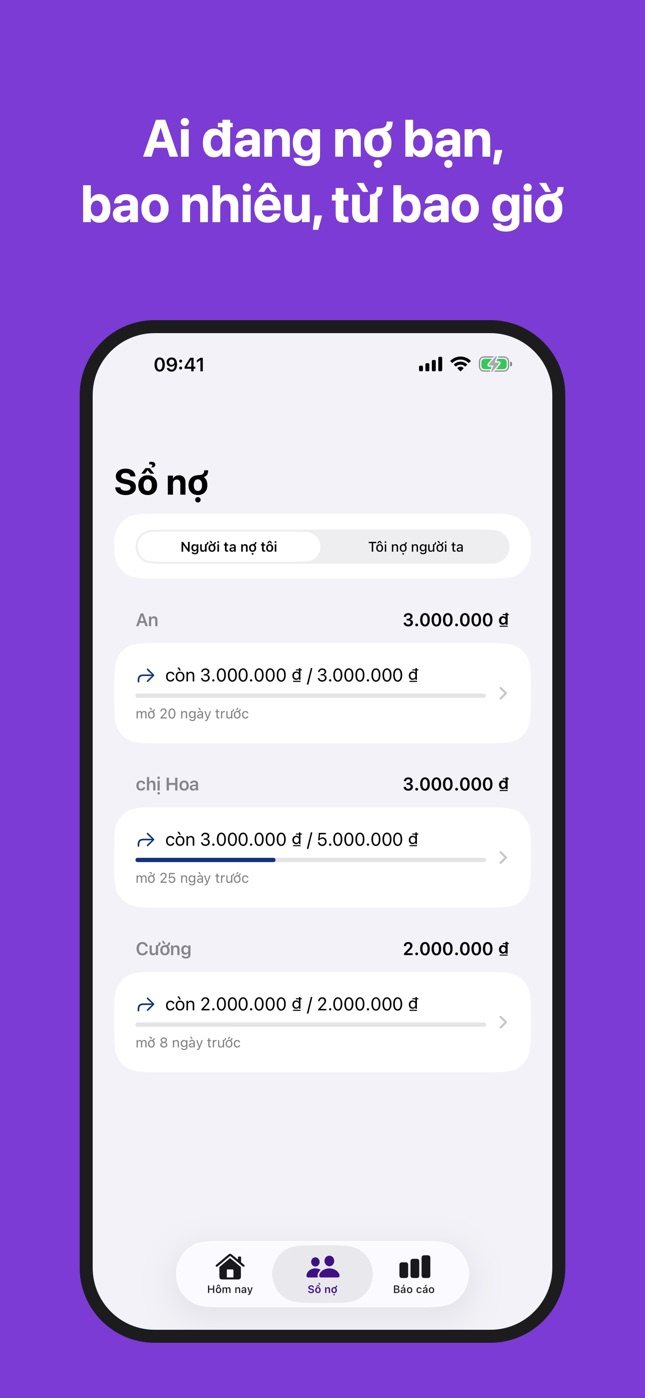
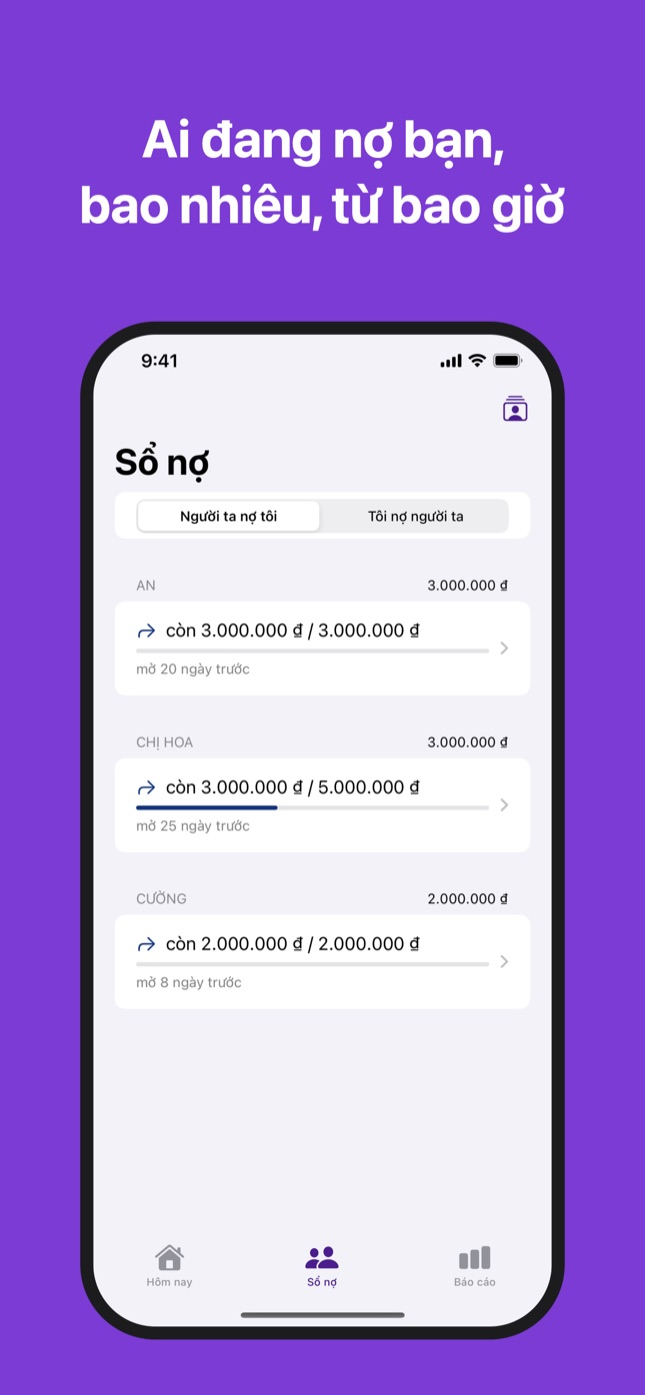
Add files via upload

diff --git a/docs/index.html b/docs/index.html
@@ -30,9 +30,9 @@
   </section>
 
   <section class="shots" aria-label="Ảnh màn hình">
-    <img src="assets/shot-01.jpg" alt="Ảnh màn hình ứng dụng 1" width="645" height="1398" loading="lazy">
-    <img src="assets/shot-02.jpg" alt="Ảnh màn hình ứng dụng 2" width="645" height="1398" loading="lazy">
-    <img src="assets/shot-03.jpg" alt="Ảnh màn hình ứng dụng 3" width="645" height="1398" loading="lazy">
+    <img src="assets/shot-01.jpg" alt="Ảnh màn hình ứng dụng 1" width="645" height="1395" loading="lazy">
+    <img src="assets/shot-02.jpg" alt="Ảnh màn hình ứng dụng 2" width="645" height="1395" loading="lazy">
+    <img src="assets/shot-03.jpg" alt="Ảnh màn hình ứng dụng 3" width="645" height="1395" loading="lazy">
   </section>
 
   <section class="features" aria-label="Tính năng">
@@ -51,6 +51,30 @@
     <div class="card">
       <h2>Cho mượn không phải là tiêu tiền</h2>
       <p>Tiền cho mượn không bị tính vào chi tiêu, tiền đi mượn không bị tính vào thu nhập. Vì vậy con số "tháng này tôi tiêu bao nhiêu" là con số thật.</p>
+    </div>
+    <div class="card">
+      <h2>Nhiều ví, một con số tổng</h2>
+      <p>Tiền mặt, ngân hàng, ví điện tử — tuỳ bạn đặt. Số lớn trên màn hình đầu là tổng mọi ví; chạm vào để xem từng ví. Dùng một ví thì mọi thứ y như cũ.</p>
+    </div>
+    <div class="card">
+      <h2>Chuyển ví không phải là tiêu tiền</h2>
+      <p>Rút tiền từ ngân hàng ra tiền mặt không bị tính vào Đã chi, cũng không vào Đã thu. Chỉ số dư của hai ví thay đổi.</p>
+    </div>
+    <div class="card">
+      <h2>Gõ không dấu vẫn tìm ra</h2>
+      <p>Tìm theo ghi chú, tên người hay số tiền: "banh trang" ra "Bánh tráng", "85k" ra khoản 85.000 đ. Lọc thêm theo ví, loại giao dịch và thời gian.</p>
+    </div>
+    <div class="card">
+      <h2>Danh bạ người vay mượn</h2>
+      <p>Mỗi người một dòng: đang nợ bạn bao nhiêu, bạn đang nợ họ bao nhiêu. "An", "an", "Anh An" là cùng một người? Gộp lại trong một chạm.</p>
+    </div>
+    <div class="card">
+      <h2>Lỡ tay thì hoàn tác</h2>
+      <p>Xoá, sửa một giao dịch, gộp hai người hay cất một ví — đều có năm giây để hoàn tác.</p>
+    </div>
+    <div class="card">
+      <h2>Widget màn hình chính</h2>
+      <p>Đang cho mượn bao nhiêu, đang nợ bao nhiêu — nhìn ngay trên màn hình chính, không cần mở app. Chạm vào để mở Sổ nợ.</p>
     </div>
     <div class="card">
       <h2>Dữ liệu nằm trên máy bạn</h2>
